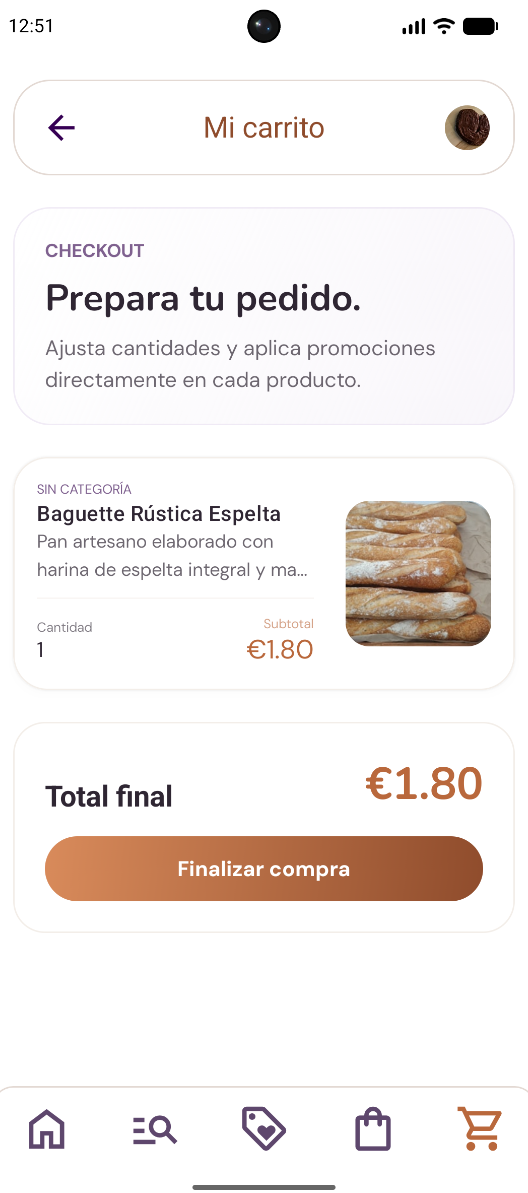
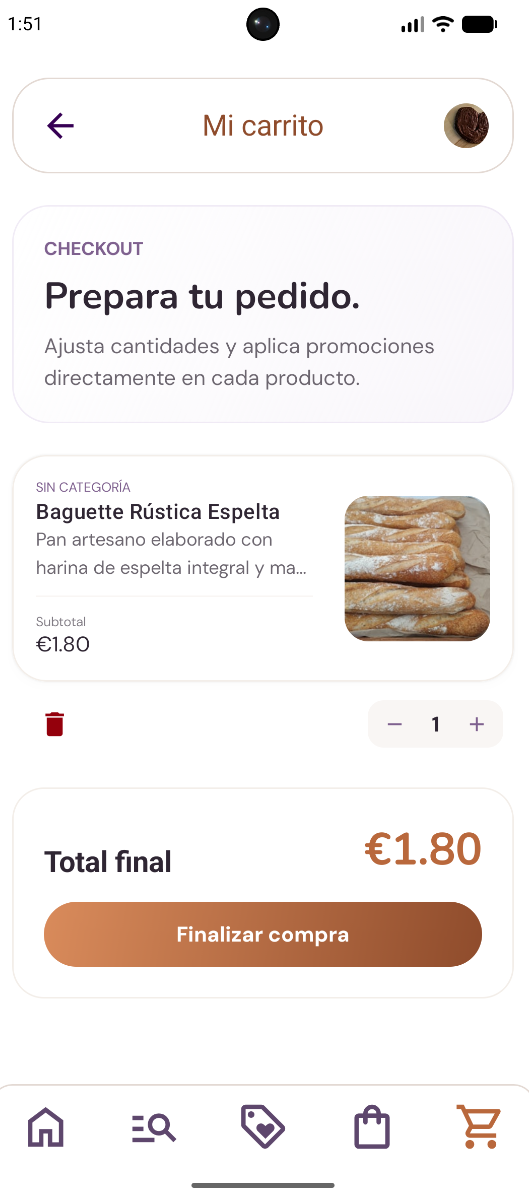
docu

diff --git a/app/src/main/java/net/iesochoa/silvia/projecto_intermodular/ui/screens/CartScreen.kt b/app/src/main/java/net/iesochoa/silvia/projecto_intermodular/ui/screens/CartScreen.kt
@@ -8,7 +8,11 @@ import androidx.compose.foundation.lazy.LazyColumn
 import androidx.compose.foundation.lazy.items
 import androidx.compose.foundation.shape.RoundedCornerShape
 import androidx.compose.material.icons.Icons
+import androidx.compose.material.icons.filled.Add
+import androidx.compose.material.icons.filled.Delete
+import androidx.compose.material.icons.filled.DeleteSweep
 import androidx.compose.material.icons.filled.ExpandMore
+import androidx.compose.material.icons.filled.Remove
 import androidx.compose.material3.*
 import androidx.compose.runtime.*
 import androidx.compose.ui.Alignment
@@ -95,13 +99,72 @@ fun CartScreen(
                             description = cartItem.product.description ?: "",
                             imageUrl = displayImage,
                             categoryName = cartItem.product.getCategoryName(),
-                            leftLabel = "Cantidad",
-                            leftValue = cartItem.quantity.toString(),
-                            rightLabel = if (itemDiscount > 0) "Subtotal (con promo)" else "Subtotal",
-                            rightValue = "€${String.format(Locale.US, "%.2f", itemFinalPrice)}"
+                            leftLabel = "Subtotal",
+                            leftValue = "€${String.format(Locale.US, "%.2f", itemFinalPrice)}",
+                            rightLabel = if (itemDiscount > 0) "Ahorro aplicado" else null,
+                            rightValue = if (itemDiscount > 0) "€${String.format(Locale.US, "%.2f", itemDiscount)}" else null
                         ),
                         modifier = Modifier.fillMaxWidth()
                     )
+
+                    // 🔹 Controles de Carrito: Eliminar y +/- Cantidad
+                    Row(
+                        modifier = Modifier
+                            .fillMaxWidth()
+                            .padding(horizontal = 8.dp),
+                        horizontalArrangement = Arrangement.SpaceBetween,
+                        verticalAlignment = Alignment.CenterVertically
+                    ) {
+                        // Botón Papelera
+                        IconButton(
+                            onClick = { onRemoveItem(cartItem.product.id) },
+                            colors = IconButtonDefaults.iconButtonColors(contentColor = Error600)
+                        ) {
+                            Icon(
+                                imageVector = Icons.Default.Delete,
+                                contentDescription = "Eliminar producto"
+                            )
+                        }
+
+                        // Selector +/-
+                        Row(
+                            verticalAlignment = Alignment.CenterVertically,
+                            horizontalArrangement = Arrangement.spacedBy(12.dp),
+                            modifier = Modifier
+                                .background(Neutral200.copy(alpha = 0.5f), RoundedCornerShape(12.dp))
+                                .padding(horizontal = 4.dp, vertical = 2.dp)
+                        ) {
+                            IconButton(
+                                onClick = { onQuantityChange(cartItem.product.id, cartItem.quantity - 1) },
+                                modifier = Modifier.size(32.dp)
+                            ) {
+                                Icon(
+                                    imageVector = Icons.Default.Remove,
+                                    contentDescription = "Restar",
+                                    tint = Primary500,
+                                    modifier = Modifier.size(18.dp)
+                                )
+                            }
+
+                            Text(
+                                text = cartItem.quantity.toString(),
+                                style = AppTypography.bodyMedium.copy(fontWeight = FontWeight.Bold),
+                                color = TextPrimary
+                            )
+
+                            IconButton(
+                                onClick = { onQuantityChange(cartItem.product.id, cartItem.quantity + 1) },
+                                modifier = Modifier.size(32.dp)
+                            ) {
+                                Icon(
+                                    imageVector = Icons.Default.Add,
+                                    contentDescription = "Sumar",
+                                    tint = Primary500,
+                                    modifier = Modifier.size(18.dp)
+                                )
+                            }
+                        }
+                    }
                     
                     if (cartItem.applicablePromotions.isNotEmpty()) {
                         ItemPromotionSelector(

diff --git a/docs/src/css/custom.css b/docs/src/css/custom.css
@@ -37,15 +37,23 @@
 
 /* Ajustes del Logo */
 .navbar__logo {
-  color: inherit; /* Hereda negro en Light y blanco en Dark */
+  color: inherit;
 }
 
-/* Fondo negro para la landing page */
-.main-wrapper {
-  background-color: #000000;
+/* Estilos para el Hero para asegurar legibilidad en ambos modos */
+.heroTitle, .heroSubtitle {
+  color: white !important;
 }
 
-/* Forzar que las páginas de documentación no tengan fondo negro si no es modo oscuro */
-[data-theme='light'] .main-wrapper:has(.docMainContainer) {
-  background-color: white;
+/* Ajustes de las tarjetas de características para que sean coherentes con el tema */
+[data-theme='light'] .featureCard {
+  background-color: #ffffff;
+  color: #1c1e21;
+  border: 1px solid #e3e3e3;
+}
+
+[data-theme='dark'] .featureCard {
+  background-color: #1a1a1a;
+  color: #ffffff;
+  border: 1px solid #333;
 }

diff --git a/docs/src/components/HomepageFeatures/styles.module.css b/docs/src/components/HomepageFeatures/styles.module.css
@@ -1,22 +1,22 @@
 .features {
   display: flex;
   align-items: center;
-  padding: 2rem 0;
+  padding: 4rem 0;
   width: 100%;
 }
 
 .featureCard {
-  background-color: #1a1a1a;
-  border: 1px solid #333;
-  border-radius: 12px;
+  border-radius: 20px;
   height: 100%;
-  transition: transform 0.2s ease-in-out;
-  color: white;
+  transition: all 0.3s ease;
+  padding: 2rem;
+  box-shadow: 0 4px 12px rgba(0,0,0,0.05);
 }
 
 .featureCard:hover {
-  transform: translateY(-5px);
-  border-color: #7F618F;
+  transform: translateY(-8px);
+  box-shadow: 0 12px 24px rgba(127, 97, 143, 0.15);
+  border-color: var(--ifm-color-primary);
 }
 
 .featureSvg {

diff --git a/docs/docs/user/mobile/auth.md b/docs/docs/user/mobile/auth.md
@@ -11,7 +11,7 @@ Para realizar pedidos en **La Croassantina** es necesario tener una sesión acti
 
 1. Introduce tu **email**.
 2. Escribe tu **contraseña**.
-3. Pulsa el botón **"Entrar"**.
+3. Pulsa el botón **"Iniciar Sesión"**.
 
 ![Login](/img/login.png)
 *Formulario de inicio de sesión.*
@@ -25,7 +25,7 @@ Si es tu primera vez en la aplicación:
    - **Email**: Asegúrate de que tenga un formato válido.
    - **Contraseña**: Debe tener al menos 8 caracteres para tu seguridad.
    - **Confirmar contraseña**: Repite la misma clave.
-3. Pulsa **"Registrarse"**.
+3. Pulsa **"Registrarme"**.
 
 ![Registro](/img/register.png)
 *Pantalla de registro de nuevos usuarios.*

diff --git a/docs/docs/user/features/login.md b/docs/docs/user/features/login.md
@@ -12,7 +12,7 @@ Para entrar en tu cuenta:
 1. Abre la aplicación.
 2. Introduce tu **correo electrónico**.
 3. Escribe tu **contraseña**.
-4. Toca en **"Entrar"**.
+4. Toca en **"Iniciar Sesión"**.
 
 ## Registro de nueva cuenta
 
@@ -20,7 +20,8 @@ Si aún no eres cliente:
 1. En la pantalla principal de acceso, toca en **"Crea una cuenta"**.
 2. Completa los datos solicitados (Email y Contraseña).
 3. Asegúrate de que la contraseña tenga al menos **8 caracteres**.
-4. ¡Listo! Tu sesión se iniciará automáticamente tras el registro.
+4. Toca en **"Registrarme"**.
+5. ¡Listo! Tu sesión se iniciará automáticamente tras el registro.
 
 ## Sesión Persistente
 

diff --git a/docs/docs/user/mobile/compra.md b/docs/docs/user/mobile/compra.md
@@ -28,9 +28,9 @@ El proceso de compra en la aplicación móvil es rápido e intuitivo, adaptado a
 ## Gestionar tu Carrito
 
 En la sección **Carrito** podrás:
-- **Actualizar cantidades**: Usa los botones `+` y `-`.
+- **Actualizar cantidades**: Usa los botones `+` y `-` debajo de cada producto.
+- **Eliminar productos**: Usa el icono de la **papelera** para quitar un artículo específico.
 - **Aplicar Promociones**: Si tienes ofertas disponibles para un producto, selecciónalas en el desplegable.
-- **Eliminar productos**: Usa el icono de papelera.
 
 ![Carrito](/img/cart.png)
 *Gestión de artículos y selección de promociones en el carrito.*

diff --git a/docs/docs/user/getting-started.md b/docs/docs/user/getting-started.md
@@ -13,8 +13,8 @@ Cuando abras la aplicación por primera vez, te encontrarás con la pantalla de 
 ```text
 1. Abre la aplicación La Croassantina.
 2. Si no tienes cuenta, pulsa en "Crea una cuenta".
-3. Regístrate con tu email y una contraseña segura de al menos 8 caracteres.
-4. Si ya tienes cuenta, introduce tus credenciales y pulsa "Entrar".
+3. Pulsa en **"Registrarme"** con tu email y una contraseña segura de al menos 8 caracteres.
+4. Si ya tienes cuenta, introduce tus credenciales y pulsa **"Iniciar Sesión"**.
 ```
 
 ![Acceso a la App](/img/login.png)
